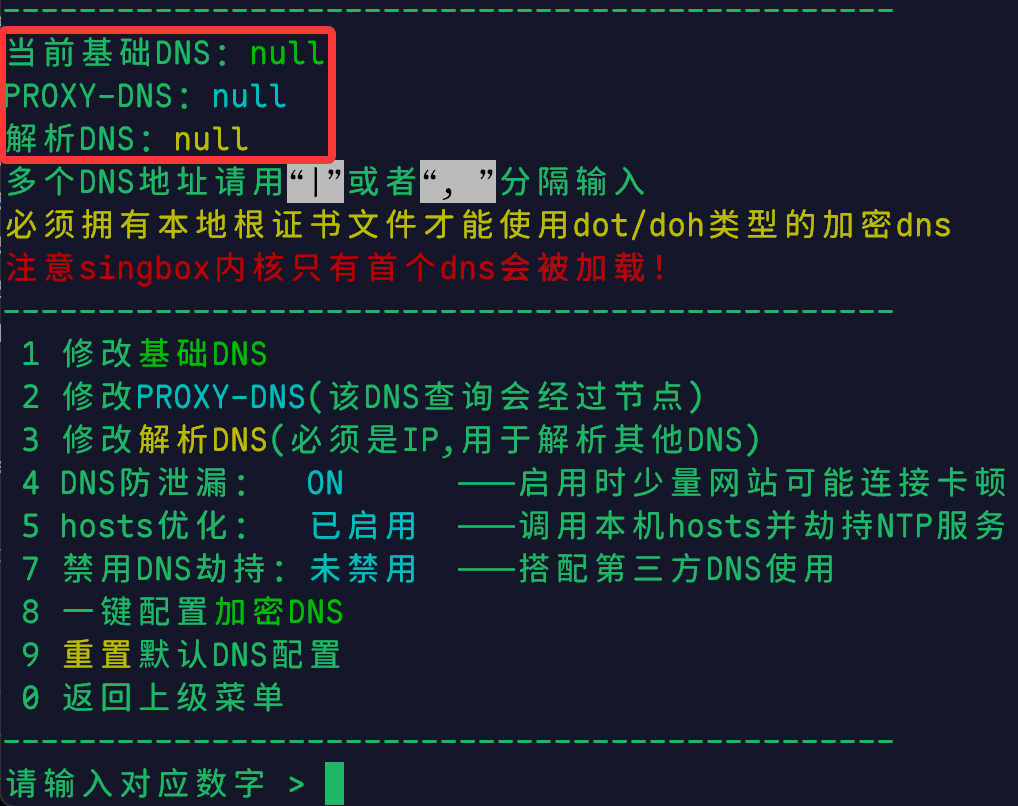
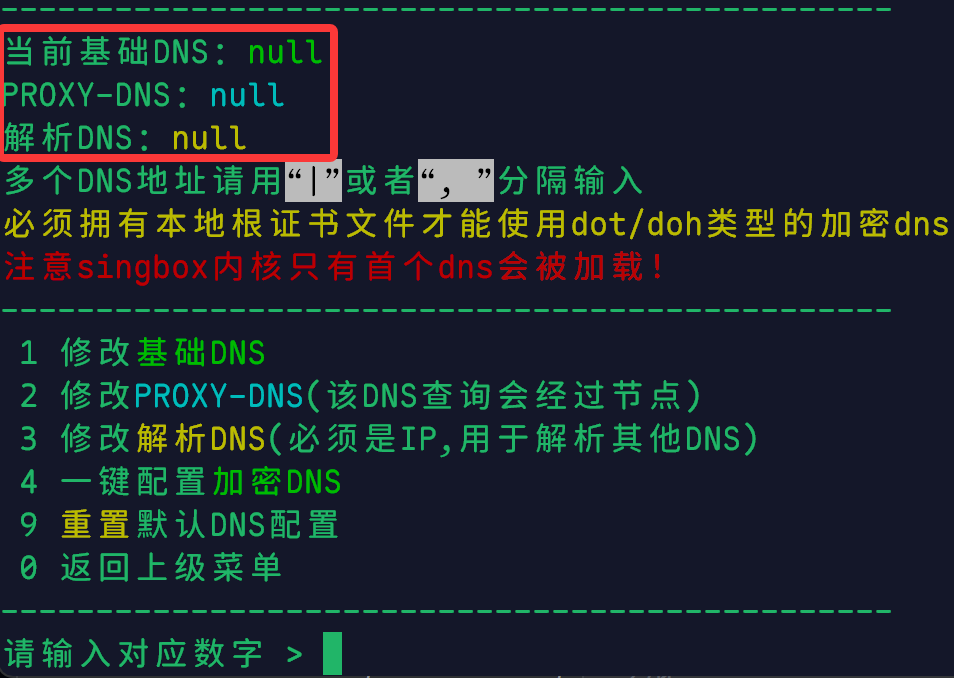
适配新版 ShellCrash；修改了一些错误

Changed region(s): [[0.0, 0.0, 1.0, 1.0], [0.6384, 0.0, 0.9119, 0.031], [0.3648, 0.0, 0.608, 0.031]]

diff --git a/_posts/2024-08-21-pin-shellcrashadguardhome-mihomo.md b/_posts/2024-08-21-pin-shellcrashadguardhome-mihomo.md
@@ -26,7 +26,7 @@ pin: true
 - ③ 版本信息请查看打包文件内的 Readme.txt 文本
 
 ### 1. ShellCrash
-官方下载：<https://raw.githubusercontent.com/juewuy/ShellCrash/master/bin/ShellCrash.tar.gz>
+官方下载：<https://raw.githubusercontent.com/juewuy/ShellCrash/master/ShellCrash.tar.gz>
 
 ### 2. mihomo 内核
 官方下载：<https://github.com/MetaCubeX/mihomo/releases>  
@@ -292,18 +292,20 @@ echo -e '12345678\n12345678' | passwd root
   - ➑ 内核加载完成后根据需要是否保留相关数据库文件（此处选择 `0`）
 - ③ 功能设置
   - ➊ 进入主菜单 → 2 功能设置 → 1 路由模式设置（推荐“混合模式”，其次“Tproxy 模式”，宽带在 300M 内推荐“Tun 模式”）
-  - ➋ 进入 2 功能设置 → 2 DNS 设置（推荐“MIX 模式”）
-  - ➌ 进入 2 功能设置 → 2 DNS 设置 → 9 DNS 进阶设置，分别选择 4 一键配置加密 DNS 和 7 禁用 DNS 劫持
-    - 注：推荐设置 DNS 分流（单独使用 ShellCrash 以及 ShellCrash 搭配 AdGuard Home 都适用），请看《[搭载 mihomo 内核进行 DNS 分流教程-geodata 方案](https://proxy-tutorials.dustinwin.us.kg/posts/dnsbypass-mihomo-geodata)》或《[搭载 mihomo 内核进行 DNS 分流教程-ruleset 方案](https://proxy-tutorials.dustinwin.us.kg/posts/dnsbypass-mihomo-ruleset)》
-    <img src="/assets/img/pin/dns-setting.png" alt="ShellCrash 配置 3" width="60%" />
+    - 注：使用“Tun 模式”前须进入主菜单 → 8 工具与优化，开启 8 小米设备 Tun 模块修复
 
-  - ➍ 进入 2 功能设置，选择 5 启用域名嗅探
-  - ➎ 进入 2 功能设置 → 8 ipv6 设置，若机场节点不支持 IPv6，可关闭 1 ipv6 透明路由  
+  - ➋ 进入 2 功能设置 → 2 DNS 设置（推荐“MIX 模式”）
+  - ➌ 进入 2 DNS 设置 → 7 DNS 劫持端口，设置为 `5353`（AdGuard Home 的“DNS 服务器端口”须设置为 `5353`）
+  - ➍ 进入 2 DNS 设置 → 9 修改 DNS 服务器，选择 4 一键配置加密 DNS
+    - 注：推荐设置 DNS 分流（单独使用 ShellCrash 以及 ShellCrash 搭配 AdGuard Home 都适用），请看《[搭载 mihomo 内核进行 DNS 分流教程-geodata 方案](https://proxy-tutorials.dustinwin.us.kg/posts/dnsbypass-mihomo-geodata)》或《[搭载 mihomo 内核进行 DNS 分流教程-ruleset 方案](https://proxy-tutorials.dustinwin.us.kg/posts/dnsbypass-mihomo-ruleset)》
+
+  - ➎ 进入 2 功能设置，选择 5 启用域名嗅探
+  - ➏ 进入 2 功能设置 → 8 ipv6 设置，若机场节点不支持 IPv6，可关闭 1 ipv6 透明路由  
     <img src="/assets/img/pin/ipv6-setting.png" alt="ShellCrash 配置 2" width="60%" />
 
 - ④ 进入主菜单 → 4 启动设置，选择 1 允许 ShellCrash 开机启动（若重启路由器后服务没有自动运行，可“设置自启延时”为 `30` 秒，然后在《[六、 1. ⑥](https://proxy-tutorials.dustinwin.us.kg//posts/pin-shellcrashadguardhome-mihomo/#1-adguard-home-%E5%AE%89%E8%A3%85)》，将 `sleep 10s` 改为 `sleep 40s`）
 - ⑤ 进入主菜单 → 5 设置自动任务 → 1 添加自动任务，输入对应的数字并回车后可设置执行条件
-- ⑥ 进入主菜单 → 9 更新与支持 → 7 切换安装源及安装版本，选择 b 切换至公测版-master → 1 Jsdelivr_CDN源，追求新版可选择 c 切换至开发版（可能不稳定）  
+- ⑥ 进入主菜单 → 9 更新与支持 → 7 切换安装源及安装版本，选择 b 切换至公测版-master → 1 Jsdelivr_CDN 源，追求新版可选择 c 切换至开发版（可能不稳定）  
   <img src="/assets/img/pin/select-update-source.png" alt="ShellCrash 配置 5" width="60%" />
 
 - ⑦ 进入主菜单 → 9 更新与支持 → 4 安装本地 Dashboard 面板，选择 1 安装 zashboard 面板  
@@ -406,7 +408,7 @@ echo -e '12345678\n12345678' | passwd root
   - ➍ 点击“打开仪表盘”后输入刚才设置的用户名和密码“登入”，就可以进入 AdGuard Home 管理页面
 - ② 进入设置 → 常规设置，取消勾选“启用日志”并点击“保存”（日志非常占用空间）
 - ③ DNS 设置
-  - ➊ 进入设置 → DNS 设置，“上游 DNS 服务器”设置为 `127.0.0.1:1053`，并选择“并行请求”
+  - ➊ 进入设置 → DNS 设置，“上游 DNS 服务器”设置为 `localhost:1053`，并选择“并行请求”
     - 注：此时页面右下角可能会弹出报错信息，但不用理会
 
     <img src="/assets/img/pin/adguardhome-up-dns.png" alt="AdGuard Home 配置 1" width="60%" />
@@ -414,7 +416,7 @@ echo -e '12345678\n12345678' | passwd root
   - ➋ “后备 DNS 服务器”设置为：
 
     ```text
-    https://dns.alidns.com/dns-query
+    quic://dns.alidns.com:853
     https://doh.pub/dns-query
     ```
 

diff --git a/_posts/2024-08-21-pin-shellcrashadguardhome-singboxr.md b/_posts/2024-08-21-pin-shellcrashadguardhome-singboxr.md
@@ -25,7 +25,7 @@ pin: true
 - ③ 版本信息请查看打包文件内的 Readme.txt 文本
 
 ### 1. ShellCrash
-官方下载：<https://raw.githubusercontent.com/juewuy/ShellCrash/master/bin/ShellCrash.tar.gz>
+官方下载：<https://raw.githubusercontent.com/juewuy/ShellCrash/master/ShellCrash.tar.gz>
 
 ### 2. sing-box reF1nd 版内核
 第三方下载：<https://github.com/DustinWin/proxy-tools/releases/tag/sing-box>  
@@ -298,18 +298,20 @@ echo -e '12345678\n12345678' | passwd root
   - ➑ 内核加载完成后根据需要是否保留相关数据库文件（此处选择 `0`）
 - ③ 功能设置
   - ➊ 进入主菜单 → 2 功能设置 → 1 路由模式设置（推荐“混合模式”，其次“Tproxy 模式”，宽带在 300M 内推荐“Tun 模式”）
-  - ➋ 进入 2 功能设置 → 2 DNS 设置（推荐“MIX 模式”）
-  - ➌ 进入 2 功能设置 → 2 DNS 设置 → 9 DNS 进阶设置，分别选择 4 一键配置加密 DNS 和 7 禁用 DNS 劫持
-    - 注：推荐设置 DNS 分流（单独使用 ShellCrash 以及 ShellCrash 搭配 AdGuard Home 都适用），请看《[搭载 sing-boxr 内核进行 DNS 分流教程-ruleset 方案](https://proxy-tutorials.dustinwin.us.kg/posts/dnsbypass-singboxr-ruleset)》
-    <img src="/assets/img/pin/dns-setting.png" alt="ShellCrash 配置 3" width="60%" />
+    - 注：使用“Tun 模式”前须进入主菜单 → 8 工具与优化，开启 8 小米设备 Tun 模块修复
 
-  - ➍ 进入 2 功能设置，选择 5 启用域名嗅探
-  - ➎ 进入 2 功能设置 → 8 ipv6 设置，若机场节点不支持 IPv6，可关闭 1 ipv6 透明路由  
+  - ➋ 进入 2 功能设置 → 2 DNS 设置（推荐“MIX 模式”）
+  - ➌ 进入 2 DNS 设置 → 7 DNS 劫持端口，设置为 `5353`（AdGuard Home 的“DNS 服务器端口”须设置为 `5353`）
+  - ➍ 进入 2 DNS 设置 → 9 修改 DNS 服务器，选择 4 一键配置加密 DNS
+    - 注：推荐设置 DNS 分流（单独使用 ShellCrash 以及 ShellCrash 搭配 AdGuard Home 都适用），请看《[搭载 sing-boxr 内核进行 DNS 分流教程-ruleset 方案](https://proxy-tutorials.dustinwin.us.kg/posts/dnsbypass-singboxr-ruleset)》
+
+  - ➎ 进入 2 功能设置，选择 5 启用域名嗅探
+  - ➏ 进入 2 功能设置 → 8 ipv6 设置，若机场节点不支持 IPv6，可关闭 1 ipv6 透明路由  
     <img src="/assets/img/pin/ipv6-setting.png" alt="ShellCrash 配置 2" width="60%" />
 
 - ④ 进入主菜单 → 4 启动设置，选择 1 允许 ShellCrash 开机启动（若重启路由器后服务没有自动运行，可“设置自启延时”为 `30` 秒，然后在《[六、 1. ⑥](https://proxy-tutorials.dustinwin.us.kg//posts/pin-shellcrashadguardhome-mihomo/#1-adguard-home-%E5%AE%89%E8%A3%85)》，将 `sleep 10s` 改为 `sleep 40s`）
 - ⑤ 进入主菜单 → 5 设置自动任务 → 1 添加自动任务，输入对应的数字并回车后可设置执行条件
-- ⑥ 进入主菜单 → 9 更新与支持 → 7 切换安装源及安装版本，选择 b 切换至公测版-master → 1 Jsdelivr_CDN源，追求新版可选择 c 切换至开发版（可能不稳定）  
+- ⑥ 进入主菜单 → 9 更新与支持 → 7 切换安装源及安装版本，选择 b 切换至公测版-master → 1 Jsdelivr_CDN 源，追求新版可选择 c 切换至开发版（可能不稳定）  
   <img src="/assets/img/pin/select-update-source.png" alt="ShellCrash 配置 5" width="60%" />
 
 - ⑦ 进入主菜单 → 9 更新与支持 → 4 安装本地 Dashboard 面板，选择 1 安装 zashboard 面板  
@@ -412,7 +414,7 @@ echo -e '12345678\n12345678' | passwd root
   - ➍ 点击“打开仪表盘”后输入刚才设置的用户名和密码“登入”，就可以进入 AdGuard Home 管理页面
 - ② 进入设置 → 常规设置，取消勾选“启用日志”并点击“保存”（日志非常占用空间）
 - ③ DNS 设置
-  - ➊ 进入设置 → DNS 设置，“上游 DNS 服务器”设置为 `127.0.0.1:1053`，并选择“并行请求”
+  - ➊ 进入设置 → DNS 设置，“上游 DNS 服务器”设置为 `localhost:1053`，并选择“并行请求”
     - 注：此时页面右下角可能会弹出报错信息，但不用理会
 
     <img src="/assets/img/pin/adguardhome-up-dns.png" alt="AdGuard Home 配置 1" width="60%" />
@@ -420,7 +422,7 @@ echo -e '12345678\n12345678' | passwd root
   - ➋ “后备 DNS 服务器”设置为：
 
     ```text
-    https://dns.alidns.com/dns-query
+    quic://dns.alidns.com:853
     https://doh.pub/dns-query
     ```
 

diff --git a/_posts/2024-08-21-share-shellcrashadguardhome-mihomo-ruleset.md b/_posts/2024-08-21-share-shellcrashadguardhome-mihomo-ruleset.md
@@ -362,16 +362,17 @@ dns:
 ```
 
 2. 按一下 Esc 键（退出键），输入英文冒号 `:`，继续输入 `wq` 并回车
-3. 执行 `crash`，进入 ShellCrash → 5 设置自动任务 → 1 添加自动任务，可以看到末尾就有添加的定时任务，输入对应的数字并回车后可设置执行条件  
+3. 执行 `sc`，进入主菜单 → 5 设置自动任务 → 1 添加自动任务，可以看到末尾就有添加的定时任务，输入对应的数字并回车后可设置执行条件  
 <img src="/assets/img/share/task-mihomo-adguardhome.png" alt="添加定时任务" width="60%" />
 
 ## 五、 ShellCrash 设置
 1. 设置可参考《[ShellCrash 搭载 mihomo 内核的配置-ruleset 方案](https://proxy-tutorials.dustinwin.us.kg/posts/toolsettings-shellcrash-mihomo-ruleset)》，此处只列举配置的不同之处
-2. 进入主菜单 → 2 功能设置 → 2 DNS 设置 → 9 DNS 进阶设置，设置如下：  
-<img src="/assets/img/share/close-dns-null.png" alt="ShellCrash 设置 2" width="60%" />
+2. 进入主菜单 → 2 功能设置 → 2 DNS 设置 → 7 DNS 劫持端口，设置为 `5353`（AdGuard Home 的“DNS 服务器端口”须设置为 `5353`）
+3. 进入 2 DNS 设置 → 9 修改 DNS 服务器，设置如下：  
+<img src="/assets/img/dns/dns-null.png" alt="ShellCrash 设置 2" width="60%" />
 
-3. 进入主菜单 → 2 功能设置，不要启用 5 启用域名嗅探（因 user.yaml 文件中已添加 `dns.sniffer` 配置项）
-4. 进入主菜单 → 6 管理配置文件 → 2 在线获取配置文件，粘贴《[一](https://proxy-tutorials.dustinwin.us.kg/posts/share-shellcrashadguardhome-mihomo-ruleset/#%E4%B8%80-%E7%94%9F%E6%88%90%E9%85%8D%E7%BD%AE%E6%96%87%E4%BB%B6-yaml-%E6%96%87%E4%BB%B6%E7%9B%B4%E9%93%BE)》中生成的配置文件 .yaml 文件直链，启动服务即可
+4. 进入 2 功能设置，不要选择 5 启用域名嗅探（因 user.yaml 文件中已添加 `dns.sniffer` 配置项）
+5. 进入主菜单 → 6 管理配置文件 → 2 在线获取配置文件，粘贴《[一](https://proxy-tutorials.dustinwin.us.kg/posts/share-shellcrashadguardhome-mihomo-ruleset/#%E4%B8%80-%E7%94%9F%E6%88%90%E9%85%8D%E7%BD%AE%E6%96%87%E4%BB%B6-yaml-%E6%96%87%E4%BB%B6%E7%9B%B4%E9%93%BE)》中生成的配置文件 .yaml 文件直链，启动服务即可
 
 ## 六、 安装 AdGuard Home
 连接 SSH 后执行如下命令：
@@ -398,13 +399,7 @@ EOF
 ```
 
 ## 七、 AdGuard Home 设置
-1. 设置可参考《[全网最详细的解锁 SSH ShellCrash 搭载 mihomo 内核搭配 AdGuard Home 安装和配置教程/AdGuard Home 配置](https://proxy-tutorials.dustinwin.us.kg/posts/pin-shellcrashadguardhome-mihomo/#2-adguard-home-%E9%85%8D%E7%BD%AE)》（可跳过“添加 DNS 重写”的步骤），此处只列举配置的不同之处
-2. 进入设置 → DNS 设置，“后备 DNS 服务器”设置为：
-
-```text
-quic://dns.alidns.com:853
-https://doh.pub/dns-query
-```
+设置可参考《[全网最详细的解锁 SSH ShellCrash 搭载 mihomo 内核搭配 AdGuard Home 安装和配置教程/AdGuard Home 配置](https://proxy-tutorials.dustinwin.us.kg/posts/pin-shellcrashadguardhome-mihomo/#2-adguard-home-%E9%85%8D%E7%BD%AE)》（可跳过“添加 DNS 重写”的步骤）
 
 ## 八、 访问 Dashboard 面板
 打开 <http://miwifi.com:9999/ui/> 后，“主机”输入 `192.168.31.1`，“端口”输入 `9999`，点击“提交”即可访问 Dashboard 面板

diff --git a/_posts/2024-08-22-share-shellcrashadguardhome-singboxr-ruleset.md b/_posts/2024-08-22-share-shellcrashadguardhome-singboxr-ruleset.md
@@ -348,15 +348,17 @@ crash
 ```
 
 2. 按一下 Esc 键（退出键），输入英文冒号 `:`，继续输入 `wq` 并回车
-3. 执行 `crash`，进入 ShellCrash → 5 设置自动任务 → 1 添加自动任务，可以看到末尾就有添加的定时任务，输入对应的数字并回车后可设置执行条件  
+3. 执行 `sc`，进入主菜单 → 5 设置自动任务 → 1 添加自动任务，可以看到末尾就有添加的定时任务，输入对应的数字并回车后可设置执行条件  
 <img src="/assets/img/share/task-singboxr-adguardhome.png" alt="添加定时任务" width="60%" />
 
 ## 六、 ShellCrash 设置
 1. 设置可参考《[ShellCrash 搭载 sing-boxr 内核的配置-ruleset 方案](https://proxy-tutorials.dustinwin.us.kg/posts/toolsettings-shellcrash-singboxr-ruleset)》，此处只列举配置的不同之处
-2. 进入主菜单 → 2 功能设置 → 2 DNS 设置 → 9 DNS 进阶设置，设置如下：  
-<img src="/assets/img/share/close-dns-null.png" alt="设置部分 2" width="60%" />
+2. 进入主菜单 → 2 功能设置 → 2 DNS 设置 → 7 DNS 劫持端口，设置为 `5353`（AdGuard Home 的“DNS 服务器端口”须设置为 `5353`）
+3. 进入主菜单 2 DNS 设置 → 9 修改 DNS 服务器，设置如下：  
+<img src="/assets/img/dns/dns-null.png" alt="设置部分 2" width="60%" />
 
-3. 进入主菜单 → 6 管理配置文件 → 2 在线获取配置文件，粘贴《[一](https://proxy-tutorials.dustinwin.us.kg/posts/share-shellcrashadguardhome-singboxr-ruleset/#%E4%B8%80-%E7%94%9F%E6%88%90%E9%85%8D%E7%BD%AE%E6%96%87%E4%BB%B6-json-%E6%96%87%E4%BB%B6%E7%9B%B4%E9%93%BE)》中生成的配置文件 .json 文件直链，启动服务即可
+4. 进入 2 功能设置，选择 5 启用域名嗅探
+5. 进入主菜单 → 6 管理配置文件 → 2 在线获取配置文件，粘贴《[一](https://proxy-tutorials.dustinwin.us.kg/posts/share-shellcrashadguardhome-singboxr-ruleset/#%E4%B8%80-%E7%94%9F%E6%88%90%E9%85%8D%E7%BD%AE%E6%96%87%E4%BB%B6-json-%E6%96%87%E4%BB%B6%E7%9B%B4%E9%93%BE)》中生成的配置文件 .json 文件直链，启动服务即可
 
 ## 七、 安装 AdGuard Home
 连接 SSH 后执行如下命令：
@@ -383,13 +385,7 @@ EOF
 ```
 
 ## 八、 AdGuard Home 设置
-1. 设置可参考《[全网最详细的解锁 SSH ShellCrash 搭载 sing-boxr 内核搭配 AdGuard Home 安装和配置教程/AdGuard Home 配置](https://proxy-tutorials.dustinwin.us.kg/posts/pin-shellcrashadguardhome-singboxr/#2-adguard-home-%E9%85%8D%E7%BD%AE)》（可跳过“添加 DNS 重写”的步骤），此处只列举配置的不同之处
-2. 进入设置 → DNS 设置，“后备 DNS 服务器”设置为：
-
-```text
-quic://dns.alidns.com:853
-https://doh.pub/dns-query
-```
+设置可参考《[全网最详细的解锁 SSH ShellCrash 搭载 sing-boxr 内核搭配 AdGuard Home 安装和配置教程/AdGuard Home 配置](https://proxy-tutorials.dustinwin.us.kg/posts/pin-shellcrashadguardhome-singboxr/#2-adguard-home-%E9%85%8D%E7%BD%AE)》（可跳过“添加 DNS 重写”的步骤）
 
 ## 九、 访问 Dashboard 面板
 打开 <http://miwifi.com:9999/ui/> 后，“主机”输入 `192.168.31.1`，“端口”输入 `9999`，点击“提交”即可访问 Dashboard 面板

diff --git a/_posts/2024-08-22-toolsettings-shellcrash-singboxr-ruleset.md b/_posts/2024-08-22-toolsettings-shellcrash-singboxr-ruleset.md
@@ -49,13 +49,13 @@ curl -L https://ghfast.top/https://github.com/DustinWin/proxy-tools/releases/dow
      <img src="/assets/img/pin/import-sing-boxr.png" alt="ShellCrash 配置 1" width="60%" />
 
    - ⑧ 内核加载完成后根据需要是否保留相关数据库文件（此处选择 `0`）
-3. 进入主菜单 → 9 更新与支持 → 7 切换安装源及安装版本，选择 b 切换至公测版 → 1 Jsdelivr_CDN源（推荐）
-4. 进入主菜单 → 9 更新与支持 → 4 安装本地 Dashboard 面板，选择 1 安装 zashboard 面板（也可跳过此步，使用《[四](https://proxy-tutorials.dustinwin.us.kg/posts/toolsettings-shellcrash-singboxr-ruleset/#%E5%9B%9B-%E5%9C%A8%E7%BA%BF-dashboard-%E9%9D%A2%E6%9D%BF)》中的在线 Dashboard 面板）  
+3. 进入主菜单 → 9 更新与支持 → 7 切换安装源及安装版本，选择 b 切换至公测版 → 1 Jsdelivr_CDN 源（推荐）
+4. 进入 9 更新与支持 → 4 安装本地 Dashboard 面板，选择 1 安装 zashboard 面板（也可跳过此步，使用《[四](https://proxy-tutorials.dustinwin.us.kg/posts/toolsettings-shellcrash-singboxr-ruleset/#%E5%9B%9B-%E5%9C%A8%E7%BA%BF-dashboard-%E9%9D%A2%E6%9D%BF)》中的在线 Dashboard 面板）  
 <img src="/assets/img/pin/install-dashboard.png" alt="安装面板" width="60%" />
 
 5. 进入主菜单 → 2 功能设置，选择 5 启用域名嗅探
 6. 进入主菜单 → 4 启动设置，选择 1 允许 ShellCrash 开机启动（若重启路由器后服务没有自动运行，可“设置自启延时”为 `30` 秒）
-7. 进入主菜单 → 5 设置自动任务 → 1 添加自动任务，可以看到末尾就有《[二](https://proxy-tutorials.dustinwin.us.kg/posts/toolsettings-shellcrash-singboxr-ruleset/#%E4%BA%8C-%E6%B7%BB%E5%8A%A0%E5%AE%9A%E6%97%B6%E4%BB%BB%E5%8A%A1)》中添加的定时任务，输入对应的数字并回车后可设置执行条件
+37. 进入主菜单 → 5 设置自动任务 → 1 添加自动任务，可以看到末尾就有《[二](https://proxy-tutorials.dustinwin.us.kg/posts/toolsettings-shellcrash-singboxr-ruleset/#%E4%BA%8C-%E6%B7%BB%E5%8A%A0%E5%AE%9A%E6%97%B6%E4%BB%BB%E5%8A%A1)》中添加的定时任务，输入对应的数字并回车后可设置执行条件
 8. 进入主菜单 → 6 管理配置文件 → 2 在线获取配置文件，粘贴《[生成带有自定义出站和规则的 sing-boxr 配置文件直链-ruleset 方案](https://proxy-tutorials.dustinwin.us.kg/posts/link-singboxr-ruleset)》中生成的 .json 配置文件直链，启动服务即可
 9. 访问 Dashboard 面板 <http://192.168.31.1:9999/ui/>，首次打开需要添加“主机”和“端口”，分别填入 `192.168.31.1` 和 `9999` 并点击“添加”即可  
 <img src="/assets/img/tools/192-9999-dashboard.png" alt="设置部分 2" width="60%" />

diff --git a/_posts/2024-08-22-share-shellcrash-singboxr-ruleset.md b/_posts/2024-08-22-share-shellcrash-singboxr-ruleset.md
@@ -339,15 +339,16 @@ crash
 ```
 
 2. 按一下 Esc 键（退出键），输入英文冒号 `:`，继续输入 `wq` 并回车
-3. 执行 `crash`，进入 ShellCrash → 5 设置自动任务 → 1 添加自动任务，可以看到末尾就有添加的定时任务，输入对应的数字并回车后可设置执行条件  
+3. 执行 `sc`，进入主菜单 → 5 设置自动任务 → 1 添加自动任务，可以看到末尾就有添加的定时任务，输入对应的数字并回车后可设置执行条件  
 <img src="/assets/img/share/task-singboxr-ruleset.png" alt="添加定时任务" width="60%" />
 
 ## 六、 设置部分
 1. 设置可参考《[ShellCrash 搭载 sing-boxr 内核的配置-ruleset 方案](https://proxy-tutorials.dustinwin.us.kg/posts/toolsettings-shellcrash-singboxr-ruleset)》，此处只列举配置的不同之处
-2. 进入主菜单 → 2 功能设置 → 2 DNS 设置 → 9 DNS 进阶设置，设置如下：  
+2. 进入主菜单 → 2 功能设置 → 2 DNS 设置 → 9 修改 DNS 服务器，设置如下：  
 <img src="/assets/img/dns/dns-null.png" alt="设置部分 2" width="60%" />
 
-3. 进入主菜单 → 6 管理配置文件 → 2 在线获取配置文件，粘贴《[一](https://proxy-tutorials.dustinwin.us.kg/posts/share-shellcrash-singboxr-ruleset/#%E4%B8%80-%E7%94%9F%E6%88%90%E9%85%8D%E7%BD%AE%E6%96%87%E4%BB%B6-json-%E6%96%87%E4%BB%B6%E7%9B%B4%E9%93%BE)》中生成的配置文件 .json 文件直链，启动服务即可
+3. 进入 2 功能设置，选择 5 启用域名嗅探
+4. 进入主菜单 → 6 管理配置文件 → 2 在线获取配置文件，粘贴《[一](https://proxy-tutorials.dustinwin.us.kg/posts/share-shellcrash-singboxr-ruleset/#%E4%B8%80-%E7%94%9F%E6%88%90%E9%85%8D%E7%BD%AE%E6%96%87%E4%BB%B6-json-%E6%96%87%E4%BB%B6%E7%9B%B4%E9%93%BE)》中生成的配置文件 .json 文件直链，启动服务即可
 
 ## 七、 访问 Dashboard 面板
 打开 <http://miwifi.com:9999/ui/> 后，“主机”输入 `192.168.31.1`，“端口”输入 `9999`，点击“提交”即可访问 Dashboard 面板

diff --git a/_posts/2024-08-21-share-shellcrash-mihomo-geodata.md b/_posts/2024-08-21-share-shellcrash-mihomo-geodata.md
@@ -254,15 +254,15 @@ dns:
 ```
 
 2. 按一下 Esc 键（退出键），输入英文冒号 `:`，继续输入 `wq` 并回车
-3. 执行 `crash`，进入 ShellCrash → 5 设置自动任务 → 1 添加自动任务，可以看到末尾就有添加的定时任务，输入对应的数字并回车后可设置执行条件  
+3. 执行 `sc`，进入主菜单 → 5 设置自动任务 → 1 添加自动任务，可以看到末尾就有添加的定时任务，输入对应的数字并回车后可设置执行条件  
 <img src="/assets/img/share/task-mihomo-geodata.png" alt="添加定时任务" width="60%" />
 
 ## 六、 设置部分
 1. 设置可参考《[ShellCrash 搭载 mihomo 内核的配置-geodata 方案](https://proxy-tutorials.dustinwin.us.kg/posts/toolsettings-shellcrash-mihomo-geodata)》，此处只列举配置的不同之处
-2. 进入主菜单 → 2 功能设置 → 2 DNS 设置 → 9 DNS 进阶设置，设置如下：  
+2. 进入主菜单 → 2 功能设置 → 2 DNS 设置 → 9 修改 DNS 服务器，设置如下：  
 <img src="/assets/img/dns/dns-null.png" alt="设置部分 2" width="60%" />
 
-3. 进入主菜单 → 2 功能设置，不要启用 5 启用域名嗅探（因 user.yaml 文件中已添加 `dns.sniffer` 配置项）
+3. 进入 2 功能设置，不要选择 5 启用域名嗅探（因 user.yaml 文件中已添加 `dns.sniffer` 配置项）
 4. 进入主菜单 → 6 管理配置文件 → 2 在线获取配置文件，粘贴《[一](https://proxy-tutorials.dustinwin.us.kg/posts/share-shellcrash-mihomo-geodata/#%E4%B8%80-%E7%94%9F%E6%88%90%E9%85%8D%E7%BD%AE%E6%96%87%E4%BB%B6-yaml-%E6%96%87%E4%BB%B6%E7%9B%B4%E9%93%BE)》中生成的配置文件 .yaml 文件直链，启动服务即可
 
 ## 七、 访问 Dashboard 面板

diff --git a/_posts/2024-08-21-share-shellcrash-mihomo-ruleset.md b/_posts/2024-08-21-share-shellcrash-mihomo-ruleset.md
@@ -350,15 +350,15 @@ dns:
 ```
 
 2. 按一下 Esc 键（退出键），输入英文冒号 `:`，继续输入 `wq` 并回车
-3. 执行 `crash`，进入 ShellCrash → 5 设置自动任务 → 1 添加自动任务，可以看到末尾就有添加的定时任务，输入对应的数字并回车后可设置执行条件  
+3. 执行 `sc`，进入主菜单 → 5 设置自动任务 → 1 添加自动任务，可以看到末尾就有添加的定时任务，输入对应的数字并回车后可设置执行条件  
 <img src="/assets/img/share/task-mihomo-ruleset.png" alt="添加定时任务" width="60%" />
 
 ## 五、 设置部分
 1. 设置可参考《[ShellCrash 搭载 mihomo 内核的配置-ruleset 方案](https://proxy-tutorials.dustinwin.us.kg/posts/toolsettings-shellcrash-mihomo-ruleset)》，此处只列举配置的不同之处
-2. 进入主菜单 → 2 功能设置 → 2 DNS 设置 → 9 DNS 进阶设置，设置如下：  
+2. 进入主菜单 → 2 功能设置 → 2 DNS 设置 → 9 修改 DNS 服务器，设置如下：  
 <img src="/assets/img/dns/dns-null.png" alt="设置部分 2" width="60%" />
 
-3. 进入主菜单 → 2 功能设置，不要启用 5 启用域名嗅探（因 user.yaml 文件中已添加 `dns.sniffer` 配置项）
+3. 进入 2 功能设置，不要选择 5 启用域名嗅探（因 user.yaml 文件中已添加 `dns.sniffer` 配置项）
 4. 进入主菜单 → 6 管理配置文件 → 2 在线获取配置文件，粘贴《[一](https://proxy-tutorials.dustinwin.us.kg/posts/share-shellcrash-mihomo-ruleset/#%E4%B8%80-%E7%94%9F%E6%88%90%E9%85%8D%E7%BD%AE%E6%96%87%E4%BB%B6-yaml-%E6%96%87%E4%BB%B6%E7%9B%B4%E9%93%BE)》中生成的配置文件 .yaml 文件直链，启动服务即可
 
 ## 六、 访问 Dashboard 面板

diff --git a/_posts/2024-08-21-toolsettings-shellcrash-mihomo-geodata.md b/_posts/2024-08-21-toolsettings-shellcrash-mihomo-geodata.md
@@ -58,8 +58,8 @@ curl -o $CRASHDIR/Country.mmdb -L https://cdn.jsdelivr.net/gh/DustinWin/ruleset_
      <img src="/assets/img/pin/import-mihomo.png" alt="ShellCrash 配置 1" width="60%" />
 
    - ⑧ 内核加载完成后根据需要是否保留相关数据库文件（此处选择 `0`）
-3. 进入主菜单 → 9 更新与支持 → 7 切换安装源及安装版本，选择 b 切换至公测版 → 1 Jsdelivr_CDN源（推荐）
-4. 进入主菜单 → 9 更新与支持 → 4 安装本地 Dashboard 面板，选择 1 安装 zashboard 面板（也可跳过此步，直接使用《[五](https://proxy-tutorials.dustinwin.us.kg/posts/toolsettings-shellcrash-mihomo-geodata/#%E4%BA%94-%E5%9C%A8%E7%BA%BF-dashboard-%E9%9D%A2%E6%9D%BF)》中的在线 Dashboard 面板）  
+3. 进入主菜单 → 9 更新与支持 → 7 切换安装源及安装版本，选择 b 切换至公测版 → 1 Jsdelivr_CDN 源（推荐）
+4. 进入 9 更新与支持 → 4 安装本地 Dashboard 面板，选择 1 安装 zashboard 面板（也可跳过此步，直接使用《[五](https://proxy-tutorials.dustinwin.us.kg/posts/toolsettings-shellcrash-mihomo-geodata/#%E4%BA%94-%E5%9C%A8%E7%BA%BF-dashboard-%E9%9D%A2%E6%9D%BF)》中的在线 Dashboard 面板）  
 <img src="/assets/img/pin/install-dashboard.png" alt="安装面板" width="60%" />
 
 5. 进入主菜单 → 2 功能设置，选择 5 启用域名嗅探（若 `$CRASHDIR/yamls/user.yaml` 配置了 `sniffer` 则跳过此步骤）

diff --git a/_posts/2024-08-21-toolsettings-shellcrash-mihomo-ruleset.md b/_posts/2024-08-21-toolsettings-shellcrash-mihomo-ruleset.md
@@ -49,8 +49,8 @@ curl -L https://ghfast.top/https://github.com/DustinWin/proxy-tools/releases/dow
      <img src="/assets/img/pin/import-mihomo.png" alt="ShellCrash 配置 1" width="60%" />
 
    - ⑧ 内核加载完成后根据需要是否保留相关数据库文件（此处选择 `0`）
-3. 进入主菜单 → 9 更新与支持 → 7 切换安装源及安装版本，选择 b 切换至公测版 → 1 Jsdelivr_CDN源（推荐）
-4. 进入主菜单 → 9 更新与支持 → 4 安装本地 Dashboard 面板，选择 1 安装 zashboard 面板（也可跳过此步，直接使用《[四](https://proxy-tutorials.dustinwin.us.kg/posts/toolsettings-shellcrash-mihomo-ruleset/#%E5%9B%9B-%E5%9C%A8%E7%BA%BF-dashboard-%E9%9D%A2%E6%9D%BF)》中的在线 Dashboard 面板）  
+3. 进入主菜单 → 9 更新与支持 → 7 切换安装源及安装版本，选择 b 切换至公测版 → 1 Jsdelivr_CDN 源（推荐）
+4. 进入 9 更新与支持 → 4 安装本地 Dashboard 面板，选择 1 安装 zashboard 面板（也可跳过此步，直接使用《[四](https://proxy-tutorials.dustinwin.us.kg/posts/toolsettings-shellcrash-mihomo-ruleset/#%E5%9B%9B-%E5%9C%A8%E7%BA%BF-dashboard-%E9%9D%A2%E6%9D%BF)》中的在线 Dashboard 面板）  
 <img src="/assets/img/pin/install-dashboard.png" alt="安装面板" width="60%" />
 
 5. 进入主菜单 → 2 功能设置，选择 5 启用域名嗅探（若 `$CRASHDIR/yamls/user.yaml` 配置了 `sniffer` 则跳过此步骤）

diff --git a/_posts/2024-08-21-pin-toolsinstall.md b/_posts/2024-08-21-pin-toolsinstall.md
@@ -19,7 +19,7 @@ pin: true
 连接 SSH 后执行如下命令：
 
 ```shell
-curl -o /tmp/ShellCrash.tar.gz -L https://cdn.jsdelivr.net/gh/juewuy/ShellCrash@master/bin/ShellCrash.tar.gz
+curl -o /tmp/ShellCrash.tar.gz -L https://cdn.jsdelivr.net/gh/juewuy/ShellCrash@master/ShellCrash.tar.gz
 mkdir -p /tmp/SC_tmp/ && tar -zxf '/tmp/ShellCrash.tar.gz' -C /tmp/SC_tmp/ && . /tmp/SC_tmp/init.sh
 ```
 
